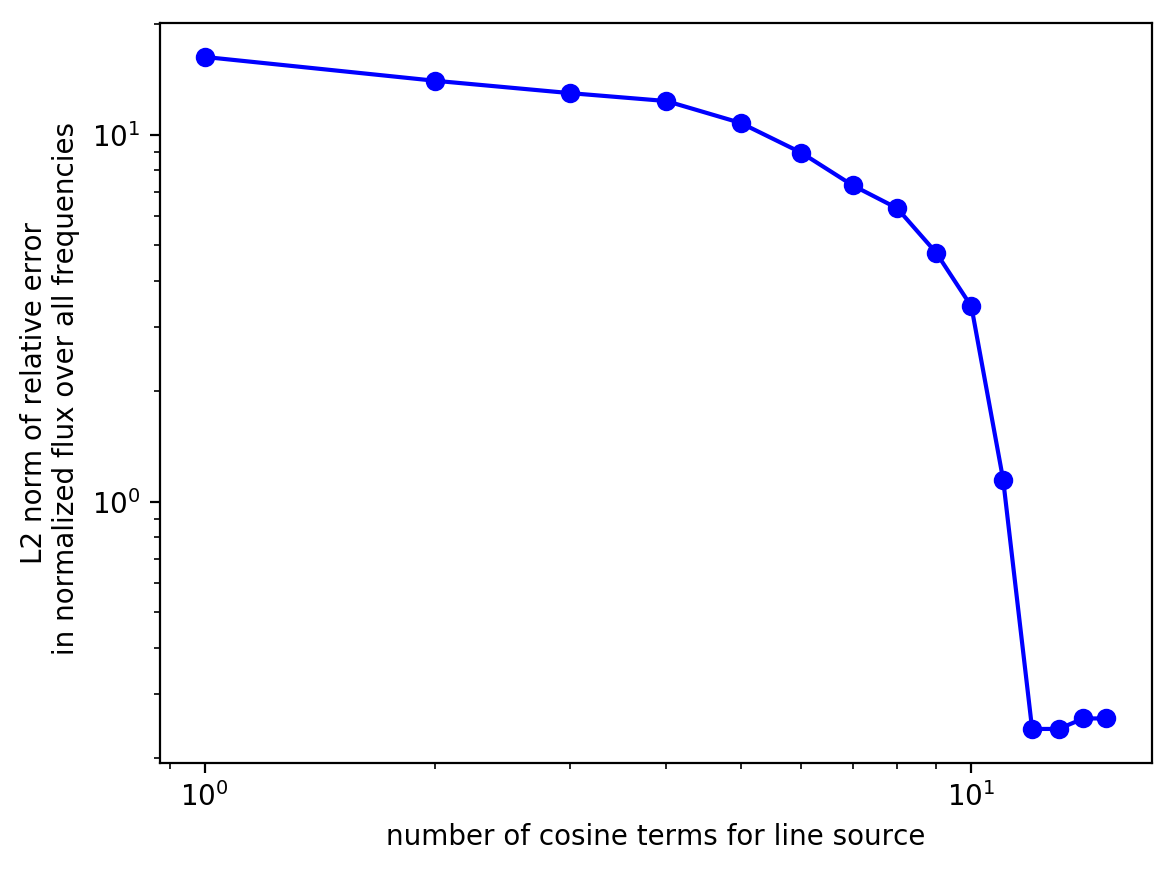
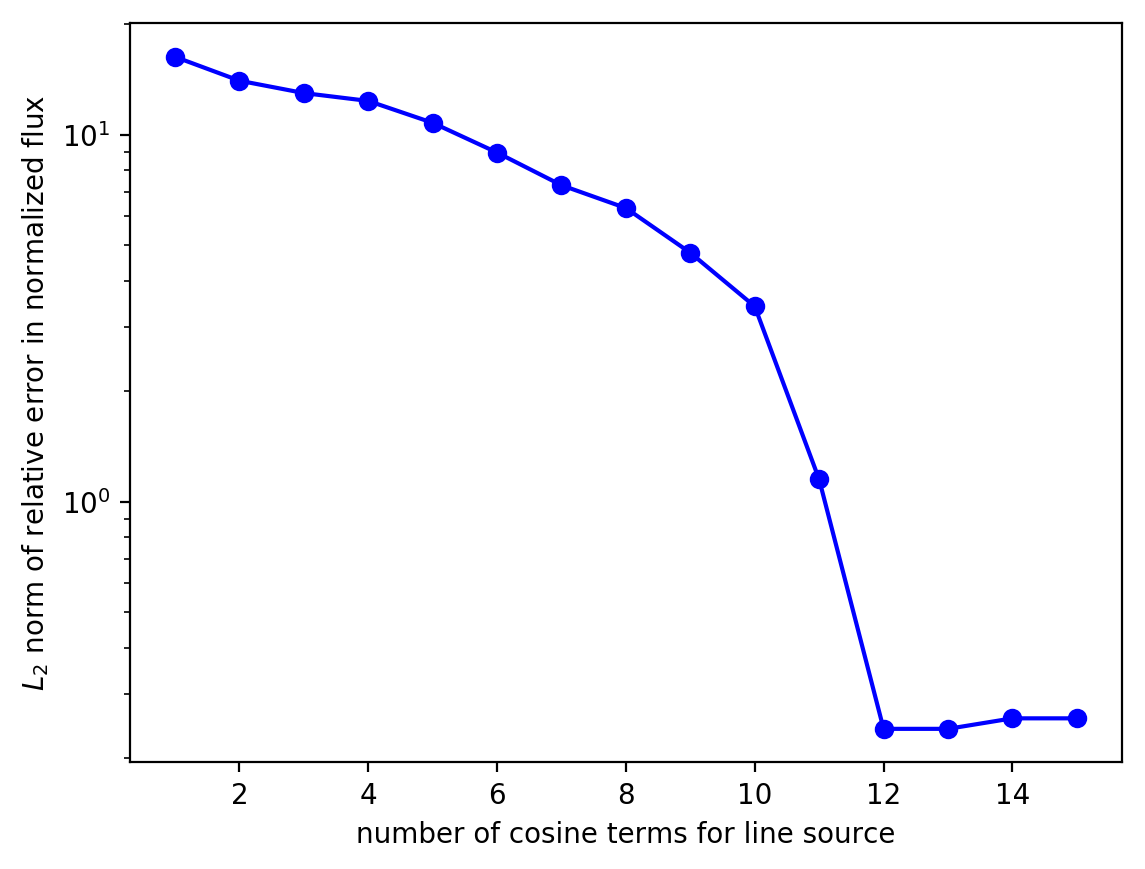
change convergence plot from log-log to semilogy

diff --git a/doc/docs/Python_Tutorials/Custom_Source.md b/doc/docs/Python_Tutorials/Custom_Source.md
@@ -304,7 +304,7 @@ if mp.am_master():
 
 There are three items to note in this script. (1) The line source spans the entire length of the cell in the $x$ direction (i.e., $L$ is `sx`). (2) The number of point dipoles in Method 2 is `sx*resolution`, one per pixel. (3) The source amplitude function in Method 3 is specified by the `amp_func` property of the [`Source`](../Python_User_Interface.md#source) object. In the case of a Fourier cosine series as conventionally written, $\cos (m\pi x)/L$ is defined over the interval $x=[0,L]$ such that $x=0$ corresponds to the *edge* of the source, not the center. Since the source region in this example is defined in $[-L/2,+L/2]$, the amplitude function must shift its $x$ coordinate argument by $+L/2$ or `0.5*sx`.
 
-Method 3 requires a convergence check in which $M$ (`nsrc` in the script) is repeatedly doubled until the change in the results are within a desired tolerance of e.g., < 1%. For this example, $M=15$ was found to be sufficient. Note that because a line source with a cosine amplitude function in *homogeneous* media is analogous to generating a planewave at a discrete angle, at each frequency $\omega$ there exists a cutoff $M$ beyond which there are *no* propagating planewaves. The cutoff $M$ can be computed analytically using the grating equation: $\sqrt{\omega^2n^2 - \left(k_x+\frac{M\pi}{L}\right)^2} = 0$, where $n$ is the refractive index of the source medium and $k_x$ is the Bloch-periodic wavevector in the $x$ direction. In this example, $\omega=2\pi$, $L=1.5$, $k_x=0$, and $n=3.45$ for which the cutoff $M$ is 11. For $M > 11$ the cosine source produces evanscent *waves in the material*, but these waves scatter into other Fourier components (including propagating waves) once they hit the grating. Thus, the source still produces propagating waves, but the amplitude of the propagating waves (and hence the contribution to the power) decreases exponentially for $M > 11$ as the coupling between the source and the grating decreases. This effect is demonstrated in the figure below which is a plot of the $L_2$ norm of the error in the normalized flux of the cosine source relative to the "exact" result involving 75 point dipoles (Method 2) as a function of the number of terms in the cosine source. The error converges exponentially to 0 until $M=11$ beyond which it is constant. Note that this analysis is only applicable to periodic structures where the line source extends the entire width of the cell with periodic boundary conditions.
+Method 3 requires a convergence check in which $M$ (`nsrc` in the script) is repeatedly doubled until the change in the results are within a desired tolerance of e.g., < 1%. For this example, $M=15$ was found to be sufficient. Note that because a line source with a cosine amplitude function in *homogeneous* media is analogous to generating a planewave at a discrete angle, at each frequency $\omega$ there exists a cutoff $M$ beyond which there are *no* propagating planewaves. The cutoff $M$ can be computed analytically using the grating equation: $\sqrt{\omega^2n^2 - \left(k_x+\frac{M\pi}{L}\right)^2} = 0$, where $n$ is the refractive index of the source medium and $k_x$ is the Bloch-periodic wavevector in the $x$ direction. In this example, $\omega=2\pi$, $L=1.5$, $k_x=0$, and $n=3.45$ for which the cutoff $M$ is 11. For $M > 11$ the cosine source produces evanscent *waves in the material*, but these waves scatter into other Fourier components (including propagating waves) once they hit the grating. Thus, the source still produces propagating waves, but the amplitude of the propagating waves (and hence the contribution to the power) decreases exponentially for $M > 11$ as the coupling between the source and the grating decreases. This effect is demonstrated in the figure below which is a semilog plot of the $L_2$ norm of the error in the normalized flux of the cosine source relative to the same result computed using 75 point dipoles (Method 2) as a function of the number of terms in the cosine source. The error converges exponentially to zero until $M=11$ beyond which it is a constant value. Note that this analysis is only applicable to periodic structures where the line source extends the entire width of the cell with periodic boundary conditions.
 
 <center>
 ![](../images/line_source_DCT_ampfunc_convergence.png)
